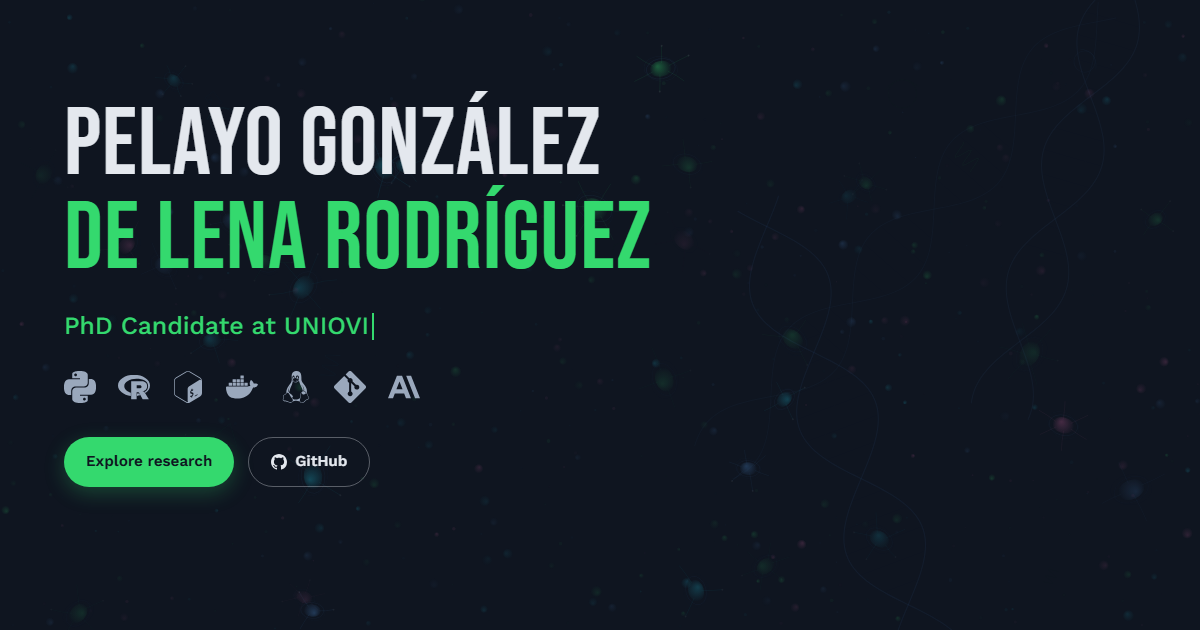
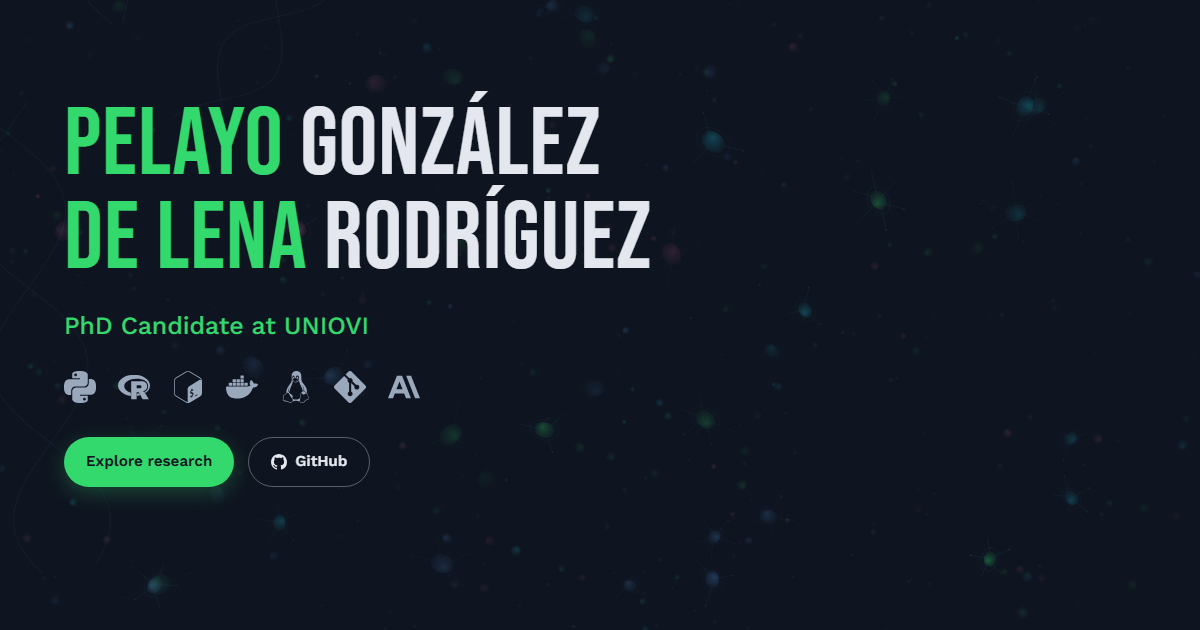
Seccion Media & Frontier, nombre en verde/blanco por palabra y visibilidad
Nueva seccion Media: tarjeta del video Codigo Biologico + radar de frontera
(Awesome AI Meets Biology, Model Context Protocol, BioMCP, voces que sigo),
compacta y bilingue. El nombre del hero pasa a Pelayo/de Lena en verde y
Gonzalez/Rodriguez en blanco; og-preview regenerada con el patron nuevo.
Visibilidad: sitemap.xml + robots.txt y README del repo al dia.

diff --git a/index.html b/index.html
@@ -217,6 +217,7 @@
       <a href="#research" data-i18n="nav.research">Research</a>
       <a href="#publications" data-i18n="nav.publications">Publications</a>
       <a href="#teaching" data-i18n="nav.teaching">Teaching</a>
+      <a href="#media" data-i18n="nav.media">Media</a>
       <a href="#skills" data-i18n="nav.skills">Skills</a>
       <a href="#repos" data-i18n="nav.repos">Repositories</a>
       <a href="#beyond" data-i18n="nav.beyond">Beyond the lab</a>
@@ -246,7 +247,7 @@
     <section id="about" class="hero">
       <canvas id="nucleosome-canvas" aria-hidden="true"></canvas>
       <div class="hero-inner">
-        <h1 class="hero-name"><span class="hero-name-a">Pelayo González</span><br /><span class="hero-name-b">de Lena Rodríguez</span></h1>
+        <h1 class="hero-name"><span class="hero-name-b">Pelayo</span> <span class="hero-name-a">González</span><br /><span class="hero-name-b">de Lena</span> <span class="hero-name-a">Rodríguez</span></h1>
         <p class="hero-typing" aria-label="PhD candidate, computational biologist, plant epigenomics researcher">
           <span class="typing-text" id="typing-target" aria-hidden="true"></span><span class="typing-cursor" aria-hidden="true"></span>
         </p>
@@ -484,6 +485,42 @@
             <p data-i18n="teach.t5.d">Tutorials and workflows for research automation with AI agents.</p>
           </div>
         </article>
+      </div>
+    </section>
+
+    <!-- Media & Frontier -->
+    <section id="media" class="section">
+      <div class="section-inner">
+        <h2 class="section-title" data-i18n="media.title">Media &amp; Frontier</h2>
+        <p class="section-sub" data-i18n="media.sub">Videos and the frontier of bioinformatics I keep an eye on.</p>
+
+        <a class="video-card" href="https://www.youtube.com/watch?v=IN2o_eJz1Ag" target="_blank" rel="noopener noreferrer">
+          <img src="img/thumbs/video_codigo_biologico.jpg" alt="Código Biológico introduction video" loading="lazy" width="480" height="360" />
+          <span class="video-card-body">
+            <strong>Código Biológico</strong>
+            <span data-i18n="media.video.d">Teaching bioinformatics from scratch, with real datasets. Watch the intro on YouTube.</span>
+          </span>
+        </a>
+
+        <h2 class="section-title section-title--sub" data-i18n="media.frontier.t">Frontier watchlist</h2>
+        <ul class="project-list">
+          <li>
+            <h3>Awesome AI Meets Biology <a class="mini-link" href="https://github.com/biopelayo/Awesome-AI-Meets-Biology" target="_blank" rel="noopener noreferrer" aria-label="Awesome AI Meets Biology on GitHub"><svg aria-hidden="true"><use href="#ico-external"/></svg></a></h3>
+            <p data-i18n="media.f1.d">Curated collection of state-of-the-art LLMs and agents in biomedicine and bioinformatics.</p>
+          </li>
+          <li>
+            <h3>Model Context Protocol <a class="mini-link" href="https://modelcontextprotocol.io" target="_blank" rel="noopener noreferrer" aria-label="Model Context Protocol website"><svg aria-hidden="true"><use href="#ico-external"/></svg></a></h3>
+            <p data-i18n="media.f2.d">The open standard wiring AI agents to scientific tools and data.</p>
+          </li>
+          <li>
+            <h3>BioMCP <a class="mini-link" href="https://github.com/genomoncology/biomcp" target="_blank" rel="noopener noreferrer" aria-label="BioMCP on GitHub"><svg aria-hidden="true"><use href="#ico-external"/></svg></a></h3>
+            <p data-i18n="media.f3.d">MCP server that puts PubMed, ClinicalTrials and genomic databases in the hands of agents.</p>
+          </li>
+          <li>
+            <h3 data-i18n="media.f4.t">Voices I follow</h3>
+            <p data-i18n-html="media.f4.d"><a href="https://www.linkedin.com/in/tommy-tang-bioinformatics/" target="_blank" rel="noopener noreferrer">Tommy Tang</a>, <a href="https://www.linkedin.com/in/laboratory/" target="_blank" rel="noopener noreferrer">Lior Pachter</a> and <a href="https://www.linkedin.com/in/xsliu/" target="_blank" rel="noopener noreferrer">Xiaole Shirley Liu</a>: single-cell, RNA-seq and cancer epigenomics thinking worth reading.</p>
+          </li>
+        </ul>
       </div>
     </section>
 

diff --git a/js/i18n-es.js b/js/i18n-es.js
@@ -9,6 +9,7 @@ window.I18N_ES = {
   "nav.research": "Investigación",
   "nav.publications": "Publicaciones",
   "nav.teaching": "Docencia",
+  "nav.media": "Medios",
   "nav.skills": "Habilidades",
   "nav.repos": "Repositorios",
   "nav.beyond": "Fuera del laboratorio",
@@ -72,6 +73,16 @@ window.I18N_ES = {
   "teach.t3.d": "Patrones básicos y ejemplos realistas de ómicas; impartido en el IAAP, entre otros.",
   "teach.t5.t": "Claude Code y agentes de IA",
   "teach.t5.d": "Tutoriales y flujos de automatización de la investigación con agentes de IA.",
+
+  "media.title": "Vídeos y frontera",
+  "media.sub": "Vídeos y la frontera de la bioinformática que sigo de cerca.",
+  "media.video.d": "Enseñar bioinformática desde cero, con datos reales. Mira la intro en YouTube.",
+  "media.frontier.t": "Radar de frontera",
+  "media.f1.d": "Colección curada de LLMs y agentes punteros en biomedicina y bioinformática.",
+  "media.f2.d": "El estándar abierto que conecta agentes de IA con herramientas y datos científicos.",
+  "media.f3.d": "Servidor MCP que pone PubMed, ClinicalTrials y bases genómicas en manos de agentes.",
+  "media.f4.t": "Voces que sigo",
+  "media.f4.d": "<a href=\"https://www.linkedin.com/in/tommy-tang-bioinformatics/\" target=\"_blank\" rel=\"noopener noreferrer\">Tommy Tang</a>, <a href=\"https://www.linkedin.com/in/laboratory/\" target=\"_blank\" rel=\"noopener noreferrer\">Lior Pachter</a> y <a href=\"https://www.linkedin.com/in/xsliu/\" target=\"_blank\" rel=\"noopener noreferrer\">Xiaole Shirley Liu</a>: single-cell, RNA-seq y epigenómica del cáncer que merecen lectura.",
 
   "skills.title": "Habilidades y tecnologías",
 

diff --git a/css/styles.css b/css/styles.css
@@ -575,6 +575,41 @@ section p { max-width: 68ch; }
 .project-list h3 { font-size: 1.1rem; font-weight: 600; margin-bottom: 3px; }
 .project-list p { font-size: 0.97rem; color: var(--muted); }
 
+/* 9b. MEDIA & FRONTIER -------------------------------------- */
+.video-card {
+  display: flex;
+  align-items: stretch;
+  gap: 0;
+  border: 1px solid var(--line);
+  border-radius: 12px;
+  overflow: hidden;
+  color: var(--text);
+  max-width: 640px;
+  transition: border-color 0.25s, transform 0.2s var(--ease-out);
+}
+.video-card:hover { border-color: var(--accent); transform: translateY(-2px); }
+.video-card img {
+  width: 220px;
+  height: auto;
+  object-fit: cover;
+  flex: 0 0 220px;
+}
+.video-card-body {
+  display: flex;
+  flex-direction: column;
+  justify-content: center;
+  gap: 6px;
+  padding: 16px 20px;
+}
+.video-card-body strong { font-size: 1.1rem; }
+.video-card-body span { font-size: 0.95rem; color: var(--muted); }
+[data-theme="light"] .video-card { background: var(--surface); }
+
+@media (max-width: 640px) {
+  .video-card { flex-direction: column; }
+  .video-card img { width: 100%; flex: none; }
+}
+
 /* 10. SKILLS ------------------------------------------------ */
 .chips-row { display: flex; flex-wrap: wrap; gap: 9px; }
 .chip {

diff --git a/README.md b/README.md
@@ -1,2 +1,8 @@
 # biopelayo.github.io
-Personal website of Pelayo González de Lena (biopelayo). Plant epigenomics, cancer bioinformatics (CNIO), quantitative histone PTM proteomics, RNA-seq pipelines, and reproducible workflows. Includes research projects, EpiProfile_PLANTS documentation, omics pipelines, skills, teaching materials, and contact links.
+
+Personal website of Pelayo González de Lena (biopelayo): plant epigenomics, quantitative histone PTM proteomics, cancer bioinformatics, and reproducible pipelines.
+
+v2 (August 2026): single-page CV-style site, hand-written HTML/CSS/JS with no frameworks and no build step. Dual dark/light theme, bilingual EN/ES (client-side dictionary), print stylesheet, and the nucleosome particle canvas as its signature background.
+
+- Design system: [DESIGN.md](DESIGN.md)
+- Product truth: [PRODUCT.md](PRODUCT.md)
